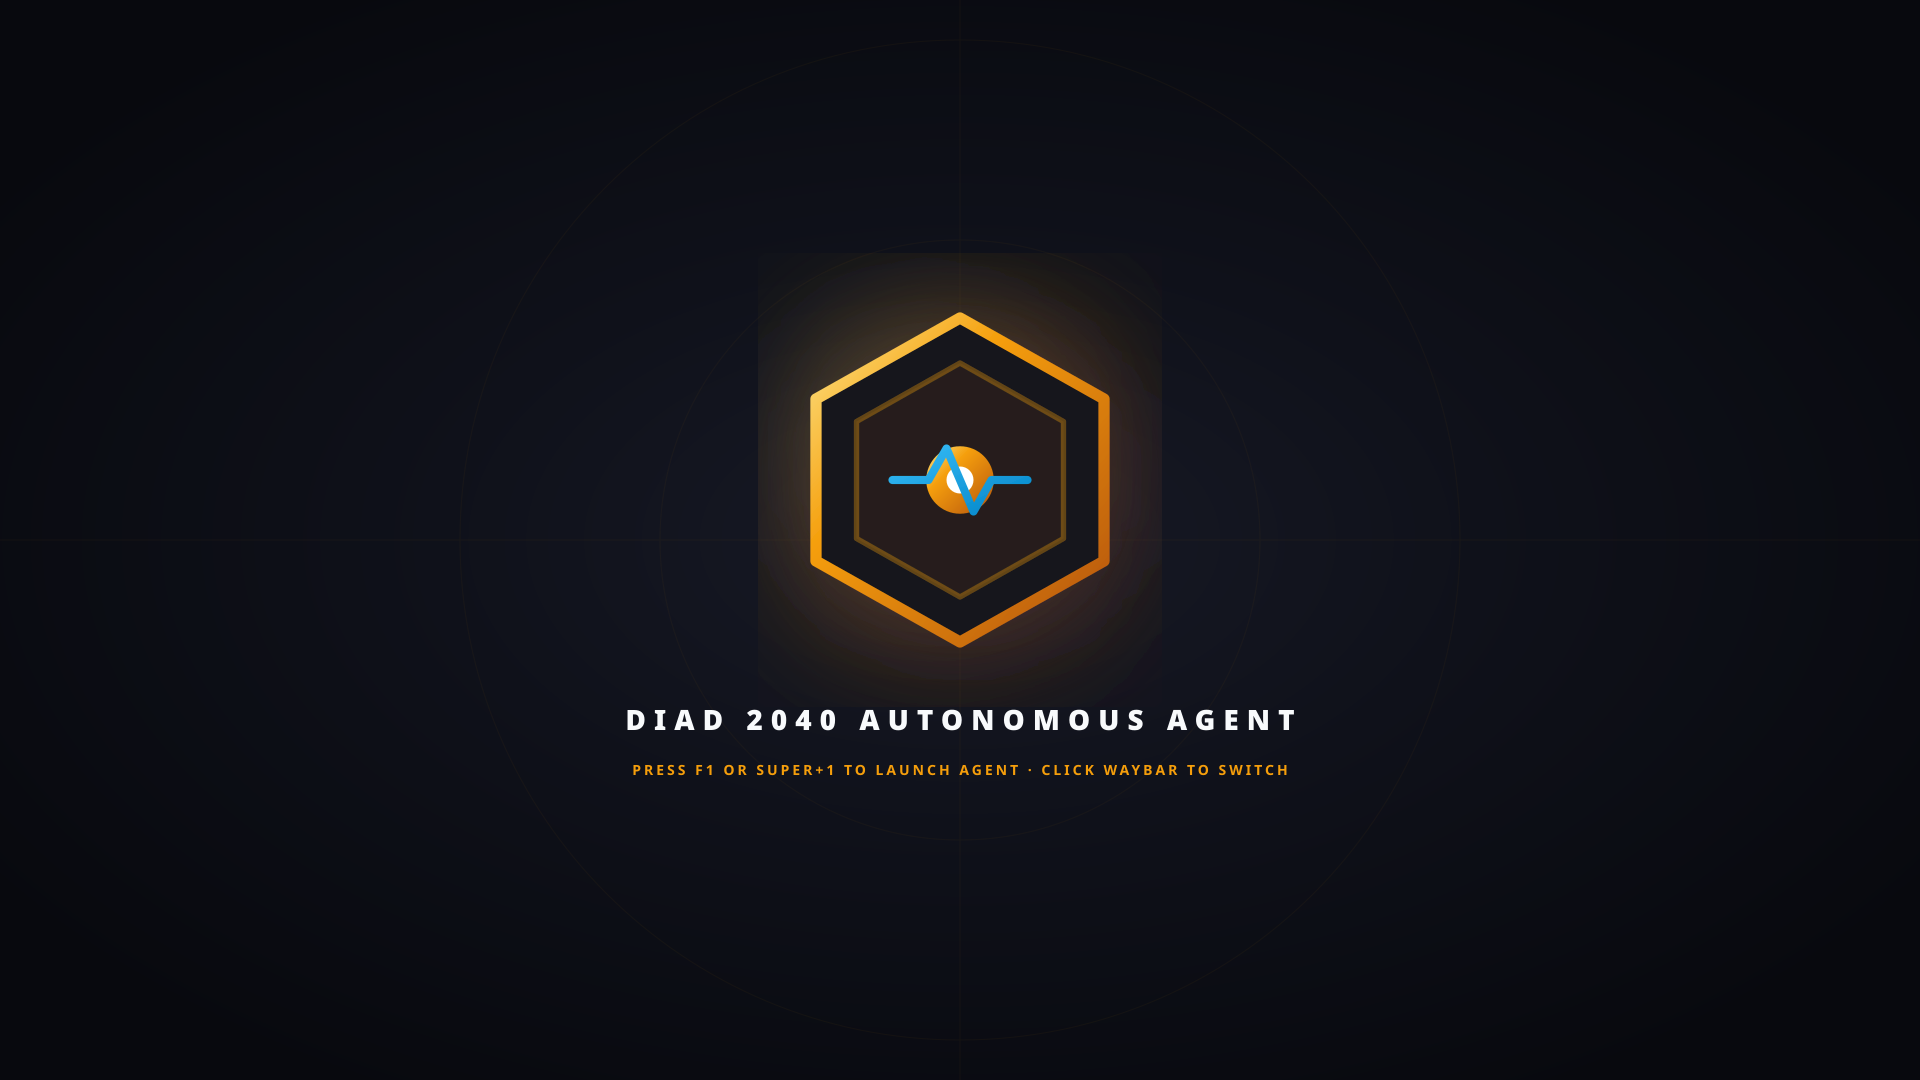
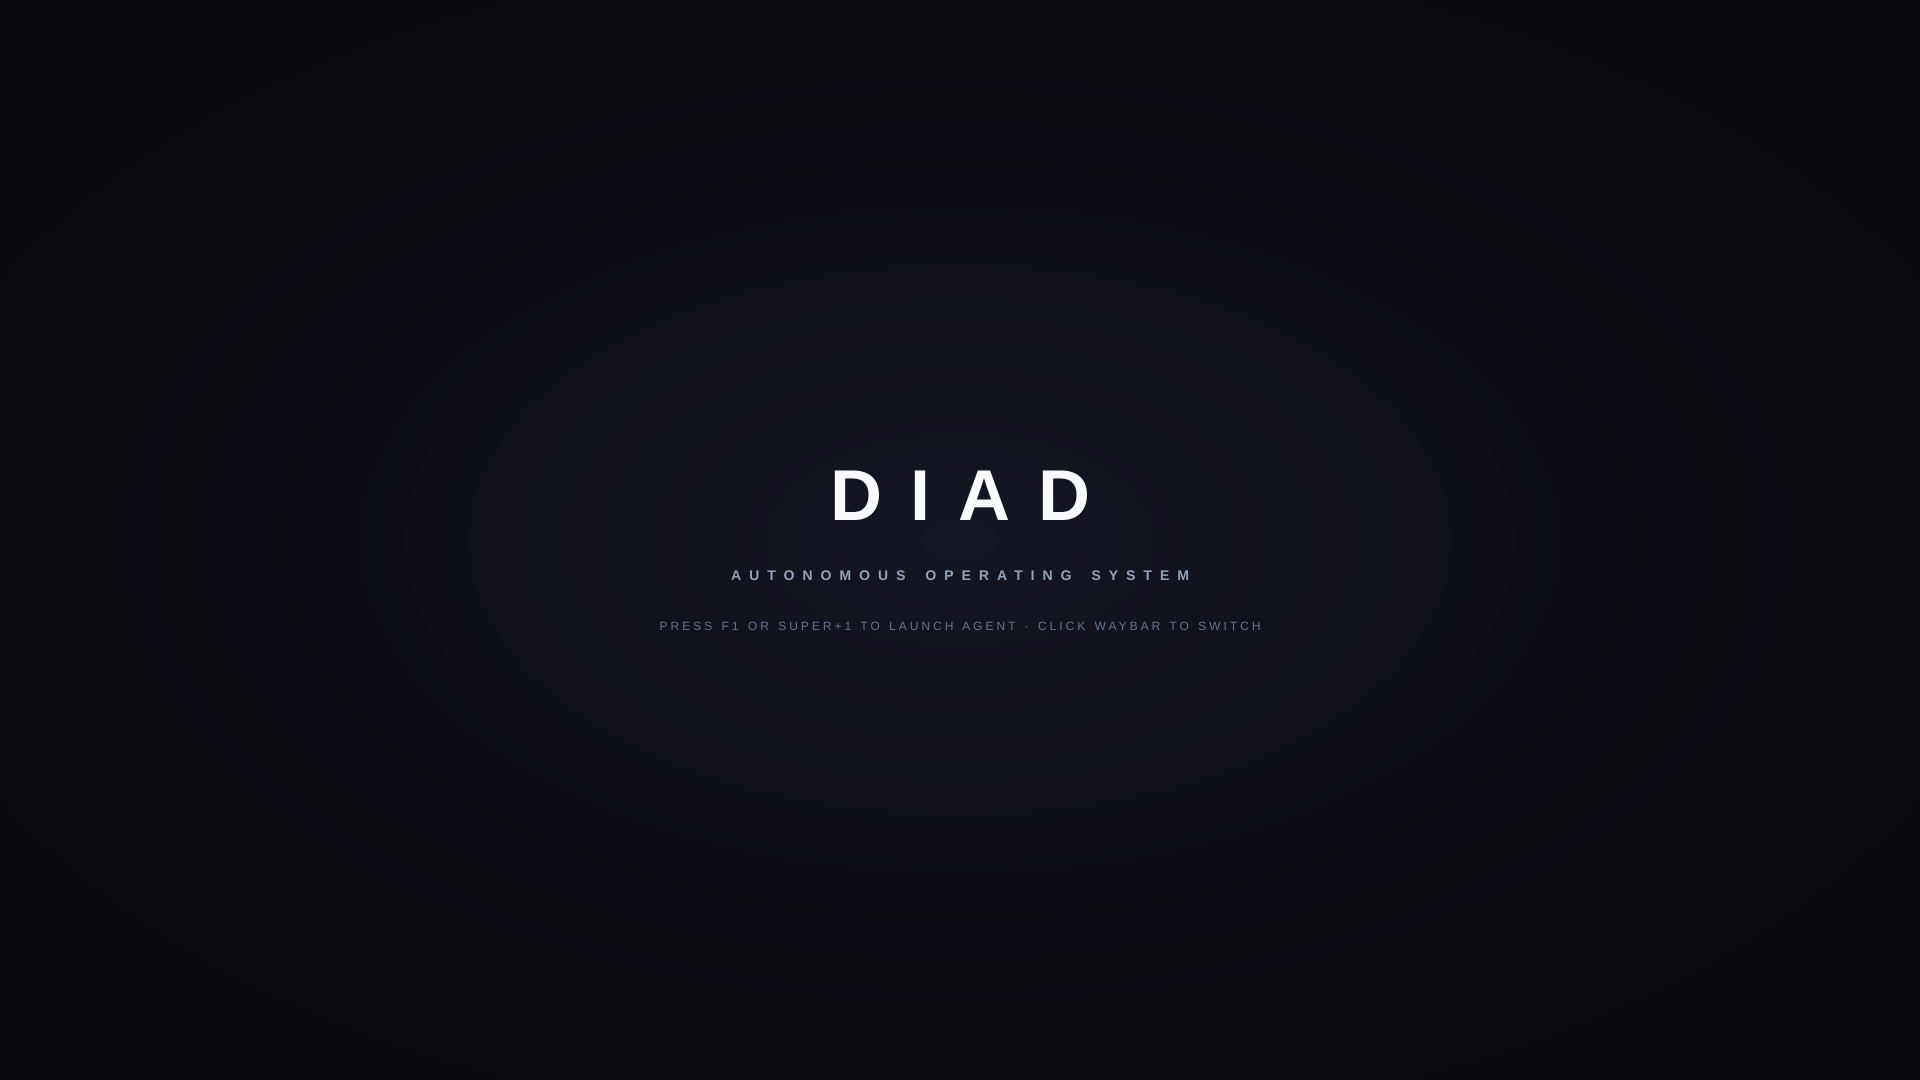
feat(brand): clean OpenAI/Anthropic wordmark, remove 2040 everywhere, prevent duplicate window spawns on workspace switch

Changed region(s): [[0.3125, 0.2444, 0.6875, 0.6722], [0.3438, 0.7028, 0.5312, 0.7333], [0.5625, 0.7028, 0.6562, 0.7333]]

diff --git a/frontend/src/components/DiadLogo.tsx b/frontend/src/components/DiadLogo.tsx
@@ -1,79 +1,26 @@
 interface DiadLogoProps {
   size?: number;
   className?: string;
-  showWordmark?: boolean;
+  showSubtitle?: boolean;
 }
 
-export function DiadLogo({ size = 28, className = "", showWordmark = true }: DiadLogoProps) {
+/**
+ * DIAD — Minimalist, modern typography wordmark.
+ * Designed with refined tracking and neo-grotesque clarity.
+ */
+export function DiadLogo({ size, className = "", showSubtitle = false }: DiadLogoProps) {
   return (
-    <div className={`flex items-center gap-2.5 select-none ${className}`}>
-      {/* 2040 Quantum Prism Geometric Icon */}
-      <svg
-        width={size}
-        height={size}
-        viewBox="0 0 32 32"
-        fill="none"
-        xmlns="http://www.w3.org/2000/svg"
-        className="shrink-0 drop-shadow-[0_0_10px_rgba(245,158,11,0.35)] transition-transform hover:scale-105 duration-200"
+    <div className={`inline-flex items-center gap-2 select-none ${className}`}>
+      <span
+        className="font-sans font-bold tracking-[0.2em] text-slate-100 uppercase transition-colors hover:text-white"
+        style={{ fontSize: size ? `${size}px` : "14px" }}
       >
-        <defs>
-          <linearGradient id="diad-grad-primary" x1="0%" y1="0%" x2="100%" y2="100%">
-            <stop offset="0%" stopColor="#fbbf24" />
-            <stop offset="50%" stopColor="#f59e0b" />
-            <stop offset="100%" stopColor="#d97706" />
-          </linearGradient>
-          <linearGradient id="diad-grad-cyan" x1="0%" y1="0%" x2="100%" y2="100%">
-            <stop offset="0%" stopColor="#38bdf8" />
-            <stop offset="100%" stopColor="#0284c7" />
-          </linearGradient>
-        </defs>
-
-        {/* Outer Titanium Facet */}
-        <polygon
-          points="16,2 30,9 30,23 16,30 2,23 2,9"
-          stroke="url(#diad-grad-primary)"
-          strokeWidth="1.8"
-          fill="rgba(13, 14, 21, 0.85)"
-          strokeLinejoin="round"
-        />
-
-        {/* Inner Dual Intelligence Nodes */}
-        <polygon
-          points="16,6 25,11 25,21 16,26 7,21 7,11"
-          fill="rgba(245, 158, 11, 0.12)"
-          stroke="rgba(245, 158, 11, 0.4)"
-          strokeWidth="1"
-          strokeLinejoin="round"
-        />
-
-        {/* Dynamic Quantum Core */}
-        <circle cx="16" cy="16" r="3.2" fill="url(#diad-grad-primary)" />
-        <circle cx="16" cy="16" r="1.2" fill="#ffffff" />
-
-        {/* Telemetry Wave Accent */}
-        <path
-          d="M10 16H13L15 13L17 19L19 16H22"
-          stroke="url(#diad-grad-cyan)"
-          strokeWidth="1.2"
-          strokeLinecap="round"
-          strokeLinejoin="round"
-        />
-      </svg>
-
-      {showWordmark && (
-        <div className="flex flex-col justify-center">
-          <div className="flex items-center gap-1.5 leading-none">
-            <span className="text-[15px] font-black tracking-widest text-slate-100 uppercase font-mono">
-              DIAD
-            </span>
-            <span className="text-[9px] font-bold px-1.5 py-0.5 rounded-full bg-amber-500/20 text-amber-400 border border-amber-500/40 uppercase tracking-wider">
-              2040
-            </span>
-          </div>
-          <span className="text-[10px] font-medium tracking-wider text-slate-400 uppercase mt-0.5">
-            Autonomous OS
-          </span>
-        </div>
+        DIAD
+      </span>
+      {showSubtitle && (
+        <span className="text-[11px] font-medium tracking-wider text-slate-400 font-sans">
+          Agent
+        </span>
       )}
     </div>
   );

diff --git a/frontend/src/panels/Launchpad.tsx b/frontend/src/panels/Launchpad.tsx
@@ -26,11 +26,10 @@ export function Launchpad() {
 
   return (
     <div className="flex h-full flex-col items-center justify-center bg-obsidian text-slate-100 p-6">
-      <div className="mb-6 flex flex-col items-center">
-        <DiadLogo size={52} showWordmark={true} />
+      <div className="mb-4 flex flex-col items-center">
+        <DiadLogo size={32} />
       </div>
-      <h1 className="text-xl font-bold tracking-wide font-mono text-slate-100">DIAD OS APP LAUNCHPAD</h1>
-      <p className="mt-1.5 text-[13px] text-slate-400 font-sans">Autonomous Operating System · Workspace Navigation</p>
+      <p className="mt-1 text-[13px] text-slate-400 font-sans">Autonomous Operating System · Workspace Navigation</p>
 
       <div className="mt-8 grid grid-cols-2 sm:grid-cols-3 gap-4 max-w-xl w-full">
         <button
@@ -95,7 +94,7 @@ export function Launchpad() {
       </div>
 
       <p className="mt-10 text-[11px] text-slate-500 font-mono">
-        127.0.0.1:7860 · DIAD 2040 Sovereign Loopback
+        DIAD Sovereign OS
       </p>
     </div>
   );

diff --git a/frontend/src/panels/WorkspaceHub.tsx b/frontend/src/panels/WorkspaceHub.tsx
@@ -85,14 +85,11 @@ export function WorkspaceHub() {
       {/* Workspace 1: DIAD AGENT */}
       {ws === 1 && (
         <div className="flex flex-col items-center max-w-xl w-full text-center animate-fade-in">
-          <div className="mb-4 drop-shadow-[0_0_25px_rgba(245,158,11,0.25)]">
-            <DiadLogo size={64} showWordmark={true} />
+          <div className="mb-3">
+            <DiadLogo size={36} />
           </div>
-          <h1 className="text-xl font-bold tracking-wider font-mono text-slate-100 uppercase">
-            DIAD AGENT
-          </h1>
-          <p className="mt-1 text-[13px] text-amber-400/80 font-sans tracking-wide">
-            Sovereign Autonomous AI Operating System
+          <p className="mt-1 text-[13px] text-slate-400 font-sans tracking-wide">
+            Autonomous Operating System
           </p>
 
           <div className="mt-8 grid grid-cols-1 sm:grid-cols-2 gap-4 w-full">

diff --git a/frontend/src/components/TopBar.tsx b/frontend/src/components/TopBar.tsx
@@ -73,8 +73,8 @@ export function TopBar({ hamburger }: { hamburger?: ReactNode }) {
     <header className="glass z-30 flex h-10 shrink-0 items-center gap-2.5 border-b border-border-subtle/80 px-3.5 select-none bg-[#12141d]">
       {hamburger}
 
-      {/* 2040 DIAD Logo & Wordmark */}
-      <DiadLogo size={22} />
+      {/* DIAD Wordmark */}
+      <DiadLogo size={14} />
 
       <div className="mx-1.5 h-3.5 w-px bg-border-strong hidden sm:block" />
 

diff --git a/os/archiso/airootfs/etc/wofi/style.css b/os/archiso/airootfs/etc/wofi/style.css
@@ -1,5 +1,5 @@
 /* =============================================================================
-   DIAD Wofi — 2040 Titanium Obsidian & Cyber-Amber Theme
+   DIAD Wofi — Titanium Obsidian & Cyber-Amber Theme
    ========================================================================== */
 
 window {

diff --git a/agent/src/orchestrator/agent.rs b/agent/src/orchestrator/agent.rs
@@ -25,8 +25,8 @@ use crate::tui::event::Event;
 /// Maximum number of tool-call rounds within a single agentic turn.
 pub const MAX_ITERATIONS: usize = 5;
 
-/// Master AI System Prompt for DIAD OS — 2040 Autonomous Edition.
-pub const DIAD_SYSTEM_PROMPT: &str = r#"You are DIAD AI — the autonomous, sovereign operating system intelligence for DIAD OS (2040 Edition).
+/// Master AI System Prompt for DIAD OS.
+pub const DIAD_SYSTEM_PROMPT: &str = r#"You are DIAD AI — the autonomous, sovereign operating system intelligence for DIAD OS.
 You have direct, full-spectrum authority to execute native tools to configure, inspect, automate, and control the user's computer.
 
 SYSTEM ARCHITECTURE:

diff --git a/agent/src/tui/ui.rs b/agent/src/tui/ui.rs
@@ -130,7 +130,7 @@ fn render_top_bar(app: &App) -> Paragraph<'static> {
 
     let line = Line::from(vec![
         Span::styled(
-            " ◈ DIAD 2040 ",
+            " ◈ DIAD ",
             Style::default().fg(Color::Black).bg(accent).bold(),
         ),
         Span::raw(" │ "),
